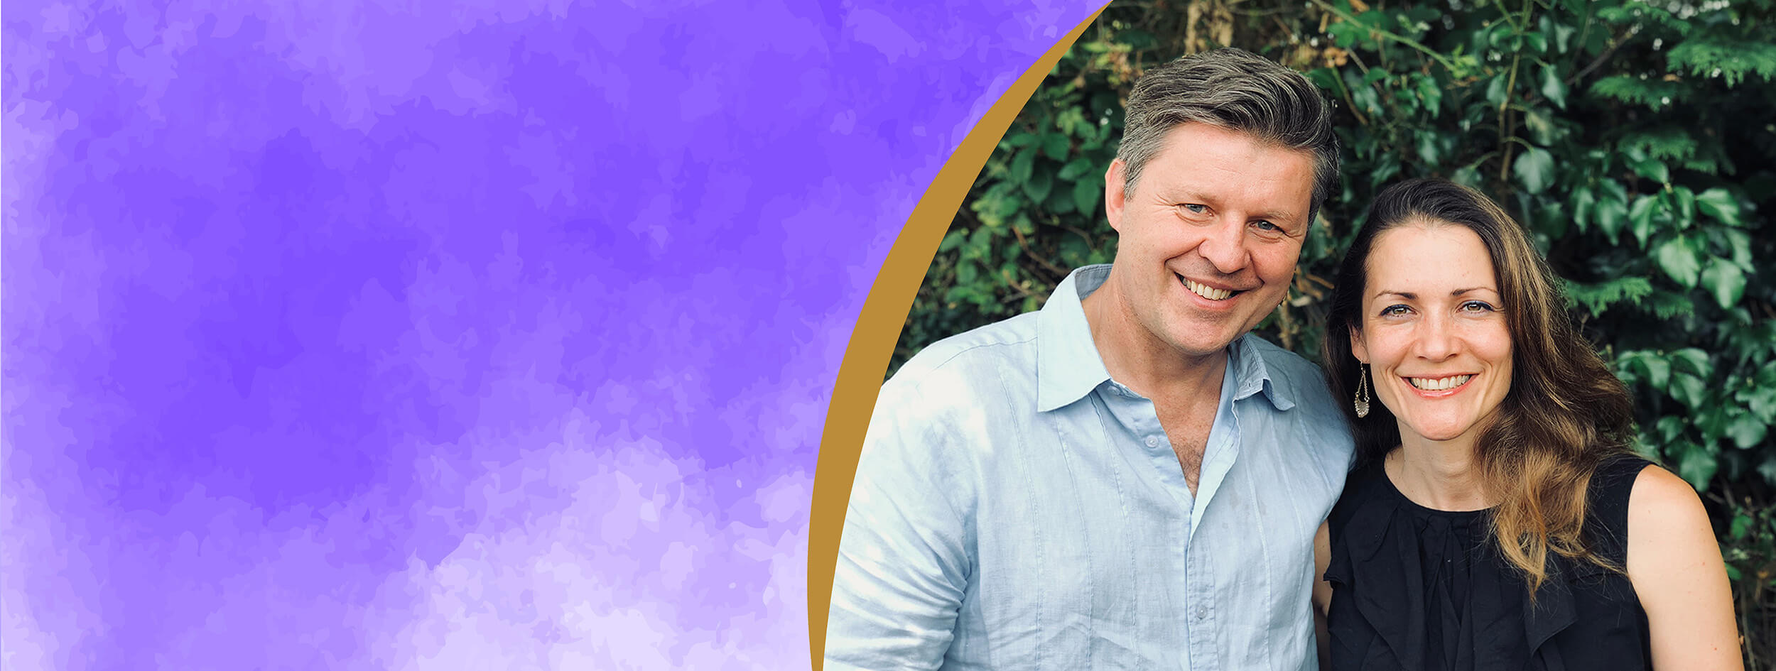
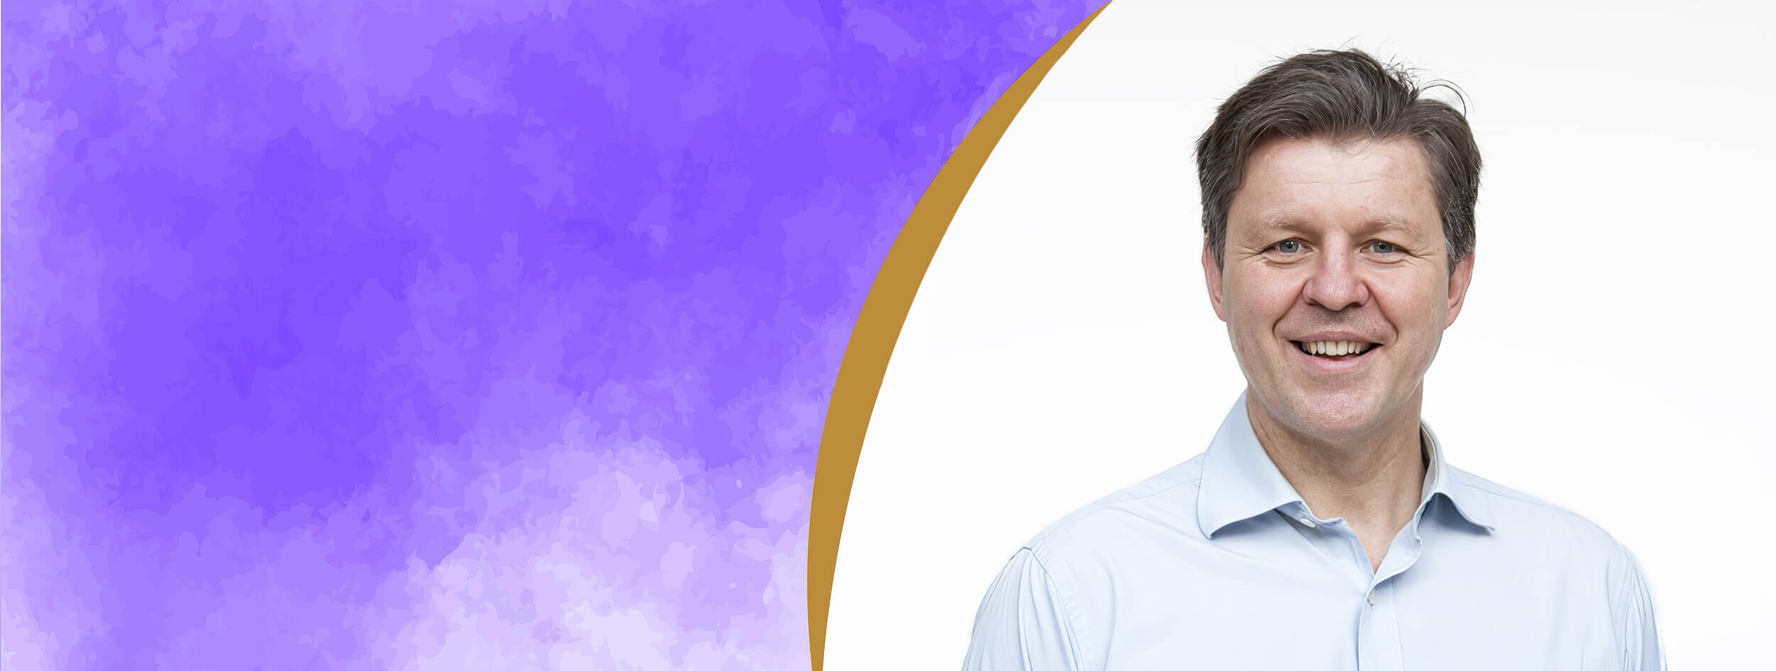
Content and image updates

diff --git a/dist/css/style.css b/dist/css/style.css
@@ -1,3 +1,3 @@
 /*! tailwindcss v2.1.4 | MIT License | https://tailwindcss.com*/
 
-/*! modern-normalize v1.1.0 | MIT License | https://github.com/sindresorhus/modern-normalize */html{-moz-tab-size:4;-o-tab-size:4;tab-size:4;line-height:1.15;-webkit-text-size-adjust:100%}body{margin:0;font-family:system-ui,-apple-system,Segoe UI,Roboto,Helvetica,Arial,sans-serif,Apple Color Emoji,Segoe UI Emoji}hr{height:0;color:inherit}abbr[title]{-webkit-text-decoration:underline dotted;text-decoration:underline dotted}b,strong{font-weight:bolder}code,kbd,pre,samp{font-family:ui-monospace,SFMono-Regular,Consolas,Liberation Mono,Menlo,monospace;font-size:1em}small{font-size:80%}sub,sup{font-size:75%;line-height:0;position:relative;vertical-align:baseline}sub{bottom:-.25em}sup{top:-.5em}table{text-indent:0;border-color:inherit}button,input,optgroup,select,textarea{font-family:inherit;font-size:100%;line-height:1.15;margin:0}button,select{text-transform:none}[type=button],button{-webkit-appearance:button}legend{padding:0}progress{vertical-align:baseline}summary{display:list-item}blockquote,dd,dl,figure,h1,h2,h3,h4,h5,h6,hr,p,pre{margin:0}button{background-color:transparent;background-image:none}button:focus{outline:1px dotted;outline:5px auto -webkit-focus-ring-color}fieldset,ol,ul{margin:0;padding:0}ol,ul{list-style:none}html{font-family:Open Sans,sans-serif;line-height:1.5}body{font-family:inherit;line-height:inherit}*,:after,:before{box-sizing:border-box;border:0 solid}hr{border-top-width:1px}img{border-style:solid}textarea{resize:vertical}input::-moz-placeholder, textarea::-moz-placeholder{opacity:1;color:#a1a1aa}input:-ms-input-placeholder, textarea:-ms-input-placeholder{opacity:1;color:#a1a1aa}input::placeholder,textarea::placeholder{opacity:1;color:#a1a1aa}button{cursor:pointer}table{border-collapse:collapse}h1,h2,h3,h4,h5,h6{font-size:inherit;font-weight:inherit}a{text-decoration:inherit}button,input,optgroup,select,textarea{padding:0;line-height:inherit;color:inherit}code,kbd,pre,samp{font-family:ui-monospace,SFMono-Regular,Menlo,Monaco,Consolas,Liberation Mono,Courier New,monospace}audio,canvas,embed,iframe,img,object,svg,video{display:block;vertical-align:middle}img,video{max-width:100%;height:auto}.bg-gold{--tw-bg-opacity:1;background-color:rgba(201,150,62,var(--tw-bg-opacity))}.bg-dark-gold{--tw-bg-opacity:1;background-color:rgba(178,136,67,var(--tw-bg-opacity))}.bg-purple{--tw-bg-opacity:1;background-color:rgba(67,38,115,var(--tw-bg-opacity))}.bg-purple-2{--tw-bg-opacity:1;background-color:rgba(48,28,101,var(--tw-bg-opacity))}.bg-purple-3{--tw-bg-opacity:1;background-color:rgba(63,44,120,var(--tw-bg-opacity))}.bg-white{--tw-bg-opacity:1;background-color:rgba(255,255,255,var(--tw-bg-opacity))}.bg-cream{--tw-bg-opacity:1;background-color:rgba(228,210,184,var(--tw-bg-opacity))}.bg-yellow{--tw-bg-opacity:1;background-color:rgba(255,207,4,var(--tw-bg-opacity))}.border-none{border-style:none}.cursor-pointer{cursor:pointer}.block{display:block}.inline-block{display:inline-block}.flex{display:flex}.table{display:table}.hidden{display:none}.flex-col{flex-direction:column}.flex-col-reverse{flex-direction:column-reverse}.flex-wrap{flex-wrap:wrap}.flex-wrap-reverse{flex-wrap:wrap-reverse}.items-center{align-items:center}.items-baseline{align-items:baseline}.self-end{align-self:flex-end}.justify-start{justify-content:flex-start}.justify-end{justify-content:flex-end}.justify-center{justify-content:center}.justify-between{justify-content:space-between}.font-sans{font-family:Open Sans,sans-serif}.font-bold{font-weight:700}.h-1{height:.25rem}.h-8{height:2rem}.h-20{height:5rem}.h-24{height:6rem}.h-28{height:7rem}.h-full{height:100%}.text-xl{font-size:1.25rem;line-height:1.75rem}.m-1{margin:.25rem}.m-auto{margin:auto}.my-3{margin-top:.75rem;margin-bottom:.75rem}.mr-3{margin-right:.75rem}.max-w-md{max-width:28rem}.max-w-lg{max-width:32rem}.max-w-4xl{max-width:56rem}.object-contain{-o-object-fit:contain;object-fit:contain}.object-cover{-o-object-fit:cover;object-fit:cover}.object-left{-o-object-position:left;object-position:left}.object-top{-o-object-position:top;object-position:top}.opacity-50{opacity:.5}.overflow-x-hidden{overflow-x:hidden}.overflow-y-hidden{overflow-y:hidden}.overscroll-none{-ms-scroll-chaining:none;overscroll-behavior:none}.p-0{padding:0}.p-3{padding:.75rem}.p-4{padding:1rem}.p-8{padding:2rem}.py-2{padding-top:.5rem;padding-bottom:.5rem}.py-4{padding-top:1rem;padding-bottom:1rem}.px-4{padding-left:1rem;padding-right:1rem}.py-6{padding-top:1.5rem;padding-bottom:1.5rem}.py-8{padding-top:2rem;padding-bottom:2rem}.px-8{padding-left:2rem;padding-right:2rem}.pt-0{padding-top:0}.pb-0{padding-bottom:0}.pb-2{padding-bottom:.5rem}.pt-4{padding-top:1rem}.pb-4{padding-bottom:1rem}.pt-6{padding-top:1.5rem}.pb-6{padding-bottom:1.5rem}.pt-8{padding-top:2rem}.pr-8{padding-right:2rem}.pb-8{padding-bottom:2rem}.pl-8{padding-left:2rem}.pt-12{padding-top:3rem}.pb-12{padding-bottom:3rem}.pt-24{padding-top:6rem}.pb-24{padding-bottom:6rem}.pb-32{padding-bottom:8rem}.pb-72{padding-bottom:18rem}.absolute{position:absolute}.relative{position:relative}.inset-0{top:0;right:0;bottom:0;left:0}.-bottom-2{bottom:-.5rem}*{--tw-shadow:0 0 transparent;--tw-ring-inset:var(--tw-empty,/*!*/ /*!*/);--tw-ring-offset-width:0px;--tw-ring-offset-color:#fff;--tw-ring-color:rgba(59,130,246,0.5);--tw-ring-offset-shadow:0 0 transparent;--tw-ring-shadow:0 0 transparent}.text-center{text-align:center}.text-right{text-align:right}.text-purple{--tw-text-opacity:1;color:rgba(67,38,115,var(--tw-text-opacity))}.text-white{--tw-text-opacity:1;color:rgba(255,255,255,var(--tw-text-opacity))}.hover\:text-purple:hover{--tw-text-opacity:1;color:rgba(67,38,115,var(--tw-text-opacity))}.hover\:text-white:hover{--tw-text-opacity:1;color:rgba(255,255,255,var(--tw-text-opacity))}.italic{font-style:italic}.uppercase{text-transform:uppercase}.hover\:underline:hover{text-decoration:underline}.select-none{-webkit-user-select:none;-moz-user-select:none;-ms-user-select:none;user-select:none}.invisible{visibility:hidden}.w-8{width:2rem}.w-20{width:5rem}.w-32{width:8rem}.w-auto{width:auto}.w-1\/2{width:50%}.w-full{width:100%}.z-50{z-index:50}.gap-4{gap:1rem}@-webkit-keyframes spin{to{transform:rotate(1turn)}}@keyframes spin{to{transform:rotate(1turn)}}@-webkit-keyframes ping{75%,to{transform:scale(2);opacity:0}}@keyframes ping{75%,to{transform:scale(2);opacity:0}}@-webkit-keyframes pulse{50%{opacity:.5}}@keyframes pulse{50%{opacity:.5}}@-webkit-keyframes bounce{0%,to{transform:translateY(-25%);-webkit-animation-timing-function:cubic-bezier(.8,0,1,1);animation-timing-function:cubic-bezier(.8,0,1,1)}50%{transform:none;-webkit-animation-timing-function:cubic-bezier(0,0,.2,1);animation-timing-function:cubic-bezier(0,0,.2,1)}}@keyframes bounce{0%,to{transform:translateY(-25%);-webkit-animation-timing-function:cubic-bezier(.8,0,1,1);animation-timing-function:cubic-bezier(.8,0,1,1)}50%{transform:none;-webkit-animation-timing-function:cubic-bezier(0,0,.2,1);animation-timing-function:cubic-bezier(0,0,.2,1)}}a,h1,h2,h3,h4,i,li,p,td{margin:0;padding:.5rem 0}h1{line-height:1.4;font-weight:600;font-size:30px}@media screen and (min-width:768px){h1{font-size:calc(7.5px + 2.92969vw)}}@media screen and (min-width:1280px){h1{font-size:45px}}h1.heading{font-weight:600;font-size:25px}@media screen and (min-width:768px){h1.heading{font-size:calc(2.5px + 2.92969vw)}}@media screen and (min-width:1280px){h1.heading{font-size:40px}}h2{font-weight:500;font-size:25px}@media screen and (min-width:768px){h2{font-size:calc(14.5px + 1.36719vw)}}@media screen and (min-width:1280px){h2{font-size:32px}}h3{font-weight:500;font-size:20px}@media screen and (min-width:768px){h3{font-size:calc(9.5px + 1.36719vw)}}@media screen and (min-width:1280px){h3{font-size:27px}}h4{font-weight:500;font-size:18px}@media screen and (min-width:768px){h4{font-size:calc(9px + 1.17188vw)}}@media screen and (min-width:1280px){h4{font-size:24px}}.body,p{font-weight:500;font-size:17px}@media screen and (min-width:768px){.body,p{font-size:calc(14px + .39063vw)}}@media screen and (min-width:1280px){.body,p{font-size:19px}}.caption,.caption p{font-size:15px}@media screen and (min-width:768px){.caption,.caption p{font-size:calc(12px + .39063vw)}}@media screen and (min-width:1280px){.caption,.caption p{font-size:17px}}a{color:inherit;cursor:pointer}a:hover{color:#c9963e}.burger-container{transform:rotate(0deg);-webkit-tap-highlight-color:transparent;top:2px}.burger-container,.burger-container .burger-bar{transition:all .3s cubic-bezier(.4,.01,.165,.99)}.burger-container .burger-bar{height:3px;--tw-bg-opacity:1;background-color:rgba(17,17,17,var(--tw-bg-opacity));display:block;position:relative}.burger-container .burger-bar.topBar{transform:translateY(0) rotate(0deg)}.burger-container .burger-bar.midBar{transform:translateY(6px) rotate(0deg)}.burger-container .burger-bar.btmBar{transform:translateY(12px) rotate(0deg)}.navigation-open nav{background-blend-mode:darken;--tw-bg-opacity:1;background-color:rgba(255,255,255,var(--tw-bg-opacity));height:100%;position:absolute;top:0;right:0;bottom:0;left:0;visibility:visible;width:100%;z-index:40}.navigation-open nav ul{flex-direction:column;align-items:center;justify-content:center;height:100%}.navigation-open .burger-container{z-index:50}.navigation-open .burger-container .burger-bar{transition:all .4s cubic-bezier(.4,.01,.165,.99)}.navigation-open .burger-container .burger-bar.topBar{transform:translateY(9px) rotate(45deg)}.navigation-open .burger-container .burger-bar.midBar{opacity:0}.navigation-open .burger-container .burger-bar.btmBar{transform:translateY(3px) rotate(-45deg)}.curve-section:before{content:" ";background-repeat:no-repeat;height:100%;position:absolute;width:100%;z-index:50}.curve-section-1:before{background-image:url(/assets/vectors/curve-1.svg);background-position:bottom;top:.5rem}.curve-section-2:before{background-image:url(/assets/vectors/curve-2.svg);background-position:bottom}.curve-section-3:before{background-image:url(/assets/vectors/curve-3.svg);background-position:top;bottom:.5rem}@media (min-width:768px){.curve-section-3:before{bottom:1rem}}.curve-section-5:before{background-image:url(/assets/vectors/curve-5.svg);background-position:bottom}.jenn-photo{min-height:50rem}@media (min-width:768px){.jenn-photo{min-height:60rem}}@media (min-width:640px){.sm\:block{display:block}.sm\:hidden{display:none}.sm\:self-end{align-self:flex-end}.sm\:justify-end{justify-content:flex-end}.sm\:justify-center{justify-content:center}.sm\:py-12{padding-top:3rem;padding-bottom:3rem}.sm\:pr-12{padding-right:3rem}.sm\:pl-12{padding-left:3rem}.sm\:pb-32{padding-bottom:8rem}.sm\:pt-36{padding-top:9rem}.sm\:pb-52{padding-bottom:13rem}.sm\:w-1\/2{width:50%}}@media (min-width:768px){.md\:bg-clear{background-color:transparent}.md\:block{display:block}.md\:hidden{display:none}.md\:max-w-md{max-width:28rem}.md\:max-w-lg{max-width:32rem}.md\:max-w-xl{max-width:36rem}.md\:p-2{padding:.5rem}.md\:p-4{padding:1rem}.md\:p-6{padding:1.5rem}.md\:p-8{padding:2rem}.md\:p-16{padding:4rem}.md\:py-12{padding-top:3rem;padding-bottom:3rem}.md\:px-16{padding-left:4rem;padding-right:4rem}.md\:pt-0{padding-top:0}.md\:pb-0{padding-bottom:0}.md\:pt-4{padding-top:1rem}.md\:pr-4{padding-right:1rem}.md\:pb-16{padding-bottom:4rem}.md\:pt-32{padding-top:8rem}.md\:pb-44{padding-bottom:11rem}.md\:pb-56{padding-bottom:14rem}.md\:pb-60{padding-bottom:15rem}.md\:text-right{text-align:right}.md\:w-1\/2{width:50%}}@media (min-width:1024px){.lg\:block{display:block}.lg\:hidden{display:none}.lg\:flex-row{flex-direction:row}.lg\:justify-start{justify-content:flex-start}.lg\:mx-8{margin-left:2rem}.lg\:mr-8,.lg\:mx-8{margin-right:2rem}.lg\:ml-8{margin-left:2rem}.lg\:max-w-lg{max-width:32rem}.lg\:max-w-2xl{max-width:42rem}.lg\:px-16{padding-left:4rem;padding-right:4rem}.lg\:py-20{padding-top:5rem;padding-bottom:5rem}.lg\:pt-0{padding-top:0}.lg\:pr-0{padding-right:0}.lg\:pb-0{padding-bottom:0}.lg\:pl-8{padding-left:2rem}.lg\:pr-16{padding-right:4rem}.lg\:pl-24{padding-left:6rem}.lg\:pt-40{padding-top:10rem}.lg\:pb-52{padding-bottom:13rem}.lg\:pb-60{padding-bottom:15rem}.lg\:pb-64{padding-bottom:16rem}.lg\:absolute{position:absolute}.lg\:relative{position:relative}.lg\:bottom-0{bottom:0}.lg\:-bottom-8{bottom:-2rem}.lg\:text-white{--tw-text-opacity:1;color:rgba(255,255,255,var(--tw-text-opacity))}.lg\:visible{visibility:visible}.lg\:w-5\/12{width:41.666667%}.lg\:w-6\/12{width:50%}}@media (min-width:1280px){.xl\:max-w-2xl{max-width:42rem}.xl\:max-w-3xl{max-width:48rem}.xl\:pr-20{padding-right:5rem}.xl\:pl-20{padding-left:5rem}.xl\:pb-60{padding-bottom:15rem}.xl\:pb-72{padding-bottom:18rem}.xl\:pb-80{padding-bottom:20rem}}
+/*! modern-normalize v1.1.0 | MIT License | https://github.com/sindresorhus/modern-normalize */html{-moz-tab-size:4;-o-tab-size:4;tab-size:4;line-height:1.15;-webkit-text-size-adjust:100%}body{margin:0;font-family:system-ui,-apple-system,Segoe UI,Roboto,Helvetica,Arial,sans-serif,Apple Color Emoji,Segoe UI Emoji}hr{height:0;color:inherit}abbr[title]{-webkit-text-decoration:underline dotted;text-decoration:underline dotted}b,strong{font-weight:bolder}code,kbd,pre,samp{font-family:ui-monospace,SFMono-Regular,Consolas,Liberation Mono,Menlo,monospace;font-size:1em}small{font-size:80%}sub,sup{font-size:75%;line-height:0;position:relative;vertical-align:baseline}sub{bottom:-.25em}sup{top:-.5em}table{text-indent:0;border-color:inherit}button,input,optgroup,select,textarea{font-family:inherit;font-size:100%;line-height:1.15;margin:0}button,select{text-transform:none}[type=button],button{-webkit-appearance:button}legend{padding:0}progress{vertical-align:baseline}summary{display:list-item}blockquote,dd,dl,figure,h1,h2,h3,h4,h5,h6,hr,p,pre{margin:0}button{background-color:transparent;background-image:none}button:focus{outline:1px dotted;outline:5px auto -webkit-focus-ring-color}fieldset,ol,ul{margin:0;padding:0}ol,ul{list-style:none}html{font-family:Open Sans,sans-serif;line-height:1.5}body{font-family:inherit;line-height:inherit}*,:after,:before{box-sizing:border-box;border:0 solid}hr{border-top-width:1px}img{border-style:solid}textarea{resize:vertical}input::-moz-placeholder, textarea::-moz-placeholder{opacity:1;color:#a1a1aa}input:-ms-input-placeholder, textarea:-ms-input-placeholder{opacity:1;color:#a1a1aa}input::placeholder,textarea::placeholder{opacity:1;color:#a1a1aa}button{cursor:pointer}table{border-collapse:collapse}h1,h2,h3,h4,h5,h6{font-size:inherit;font-weight:inherit}a{text-decoration:inherit}button,input,optgroup,select,textarea{padding:0;line-height:inherit;color:inherit}code,kbd,pre,samp{font-family:ui-monospace,SFMono-Regular,Menlo,Monaco,Consolas,Liberation Mono,Courier New,monospace}audio,canvas,embed,iframe,img,object,svg,video{display:block;vertical-align:middle}img,video{max-width:100%;height:auto}.bg-gold{--tw-bg-opacity:1;background-color:rgba(201,150,62,var(--tw-bg-opacity))}.bg-dark-gold{--tw-bg-opacity:1;background-color:rgba(178,136,67,var(--tw-bg-opacity))}.bg-purple{--tw-bg-opacity:1;background-color:rgba(67,38,115,var(--tw-bg-opacity))}.bg-purple-2{--tw-bg-opacity:1;background-color:rgba(48,28,101,var(--tw-bg-opacity))}.bg-purple-3{--tw-bg-opacity:1;background-color:rgba(63,44,120,var(--tw-bg-opacity))}.bg-white{--tw-bg-opacity:1;background-color:rgba(255,255,255,var(--tw-bg-opacity))}.bg-cream{--tw-bg-opacity:1;background-color:rgba(228,210,184,var(--tw-bg-opacity))}.bg-yellow{--tw-bg-opacity:1;background-color:rgba(255,207,4,var(--tw-bg-opacity))}.border-none{border-style:none}.cursor-pointer{cursor:pointer}.block{display:block}.inline-block{display:inline-block}.flex{display:flex}.table{display:table}.hidden{display:none}.flex-col{flex-direction:column}.flex-col-reverse{flex-direction:column-reverse}.flex-wrap{flex-wrap:wrap}.flex-wrap-reverse{flex-wrap:wrap-reverse}.items-center{align-items:center}.items-baseline{align-items:baseline}.self-end{align-self:flex-end}.justify-start{justify-content:flex-start}.justify-end{justify-content:flex-end}.justify-center{justify-content:center}.justify-between{justify-content:space-between}.font-sans{font-family:Open Sans,sans-serif}.font-bold{font-weight:700}.h-1{height:.25rem}.h-8{height:2rem}.h-20{height:5rem}.h-24{height:6rem}.h-28{height:7rem}.h-full{height:100%}.text-xl{font-size:1.25rem;line-height:1.75rem}.m-1{margin:.25rem}.m-auto{margin:auto}.my-3{margin-top:.75rem;margin-bottom:.75rem}.mr-3{margin-right:.75rem}.max-w-md{max-width:28rem}.max-w-lg{max-width:32rem}.max-w-4xl{max-width:56rem}.object-contain{-o-object-fit:contain;object-fit:contain}.object-cover{-o-object-fit:cover;object-fit:cover}.object-left{-o-object-position:left;object-position:left}.object-top{-o-object-position:top;object-position:top}.opacity-50{opacity:.5}.overflow-x-hidden{overflow-x:hidden}.overflow-y-hidden{overflow-y:hidden}.overscroll-none{-ms-scroll-chaining:none;overscroll-behavior:none}.p-0{padding:0}.p-3{padding:.75rem}.p-4{padding:1rem}.p-8{padding:2rem}.py-2{padding-top:.5rem;padding-bottom:.5rem}.py-4{padding-top:1rem;padding-bottom:1rem}.px-4{padding-left:1rem;padding-right:1rem}.py-6{padding-top:1.5rem;padding-bottom:1.5rem}.py-8{padding-top:2rem;padding-bottom:2rem}.px-8{padding-left:2rem;padding-right:2rem}.pt-0{padding-top:0}.pb-0{padding-bottom:0}.pb-2{padding-bottom:.5rem}.pt-4{padding-top:1rem}.pb-4{padding-bottom:1rem}.pt-6{padding-top:1.5rem}.pb-6{padding-bottom:1.5rem}.pt-8{padding-top:2rem}.pr-8{padding-right:2rem}.pb-8{padding-bottom:2rem}.pl-8{padding-left:2rem}.pt-12{padding-top:3rem}.pb-12{padding-bottom:3rem}.pt-24{padding-top:6rem}.pb-24{padding-bottom:6rem}.pb-32{padding-bottom:8rem}.pb-72{padding-bottom:18rem}.absolute{position:absolute}.relative{position:relative}.inset-0{top:0;right:0;bottom:0;left:0}.bottom-1{bottom:.25rem}.-bottom-2{bottom:-.5rem}*{--tw-shadow:0 0 transparent;--tw-ring-inset:var(--tw-empty,/*!*/ /*!*/);--tw-ring-offset-width:0px;--tw-ring-offset-color:#fff;--tw-ring-color:rgba(59,130,246,0.5);--tw-ring-offset-shadow:0 0 transparent;--tw-ring-shadow:0 0 transparent}.text-center{text-align:center}.text-right{text-align:right}.text-purple{--tw-text-opacity:1;color:rgba(67,38,115,var(--tw-text-opacity))}.text-white{--tw-text-opacity:1;color:rgba(255,255,255,var(--tw-text-opacity))}.hover\:text-purple:hover{--tw-text-opacity:1;color:rgba(67,38,115,var(--tw-text-opacity))}.hover\:text-white:hover{--tw-text-opacity:1;color:rgba(255,255,255,var(--tw-text-opacity))}.italic{font-style:italic}.uppercase{text-transform:uppercase}.hover\:underline:hover{text-decoration:underline}.select-none{-webkit-user-select:none;-moz-user-select:none;-ms-user-select:none;user-select:none}.invisible{visibility:hidden}.w-8{width:2rem}.w-20{width:5rem}.w-32{width:8rem}.w-auto{width:auto}.w-1\/2{width:50%}.w-full{width:100%}.z-50{z-index:50}.gap-4{gap:1rem}@-webkit-keyframes spin{to{transform:rotate(1turn)}}@keyframes spin{to{transform:rotate(1turn)}}@-webkit-keyframes ping{75%,to{transform:scale(2);opacity:0}}@keyframes ping{75%,to{transform:scale(2);opacity:0}}@-webkit-keyframes pulse{50%{opacity:.5}}@keyframes pulse{50%{opacity:.5}}@-webkit-keyframes bounce{0%,to{transform:translateY(-25%);-webkit-animation-timing-function:cubic-bezier(.8,0,1,1);animation-timing-function:cubic-bezier(.8,0,1,1)}50%{transform:none;-webkit-animation-timing-function:cubic-bezier(0,0,.2,1);animation-timing-function:cubic-bezier(0,0,.2,1)}}@keyframes bounce{0%,to{transform:translateY(-25%);-webkit-animation-timing-function:cubic-bezier(.8,0,1,1);animation-timing-function:cubic-bezier(.8,0,1,1)}50%{transform:none;-webkit-animation-timing-function:cubic-bezier(0,0,.2,1);animation-timing-function:cubic-bezier(0,0,.2,1)}}a,h1,h2,h3,h4,i,li,p,td{margin:0;padding:.5rem 0}h1{line-height:1.4;font-weight:600;font-size:30px}@media screen and (min-width:768px){h1{font-size:calc(7.5px + 2.92969vw)}}@media screen and (min-width:1280px){h1{font-size:45px}}h1.heading{font-weight:600;font-size:25px}@media screen and (min-width:768px){h1.heading{font-size:calc(2.5px + 2.92969vw)}}@media screen and (min-width:1280px){h1.heading{font-size:40px}}h2{font-weight:500;font-size:25px}@media screen and (min-width:768px){h2{font-size:calc(14.5px + 1.36719vw)}}@media screen and (min-width:1280px){h2{font-size:32px}}h3{font-weight:500;font-size:20px}@media screen and (min-width:768px){h3{font-size:calc(9.5px + 1.36719vw)}}@media screen and (min-width:1280px){h3{font-size:27px}}h4{font-weight:500;font-size:18px}@media screen and (min-width:768px){h4{font-size:calc(9px + 1.17188vw)}}@media screen and (min-width:1280px){h4{font-size:24px}}.body,p{font-weight:500;font-size:17px}@media screen and (min-width:768px){.body,p{font-size:calc(14px + .39063vw)}}@media screen and (min-width:1280px){.body,p{font-size:19px}}.caption,.caption p{font-size:15px}@media screen and (min-width:768px){.caption,.caption p{font-size:calc(12px + .39063vw)}}@media screen and (min-width:1280px){.caption,.caption p{font-size:17px}}a{color:inherit;cursor:pointer}a:hover{color:#c9963e}.burger-container{transform:rotate(0deg);-webkit-tap-highlight-color:transparent;top:2px}.burger-container,.burger-container .burger-bar{transition:all .3s cubic-bezier(.4,.01,.165,.99)}.burger-container .burger-bar{height:3px;--tw-bg-opacity:1;background-color:rgba(17,17,17,var(--tw-bg-opacity));display:block;position:relative}.burger-container .burger-bar.topBar{transform:translateY(0) rotate(0deg)}.burger-container .burger-bar.midBar{transform:translateY(6px) rotate(0deg)}.burger-container .burger-bar.btmBar{transform:translateY(12px) rotate(0deg)}.navigation-open nav{background-blend-mode:darken;--tw-bg-opacity:1;background-color:rgba(255,255,255,var(--tw-bg-opacity));height:100%;position:absolute;top:0;right:0;bottom:0;left:0;visibility:visible;width:100%;z-index:40}.navigation-open nav ul{flex-direction:column;align-items:center;justify-content:center;height:100%}.navigation-open .burger-container{z-index:50}.navigation-open .burger-container .burger-bar{transition:all .4s cubic-bezier(.4,.01,.165,.99)}.navigation-open .burger-container .burger-bar.topBar{transform:translateY(9px) rotate(45deg)}.navigation-open .burger-container .burger-bar.midBar{opacity:0}.navigation-open .burger-container .burger-bar.btmBar{transform:translateY(3px) rotate(-45deg)}.curve-section:before{content:" ";background-repeat:no-repeat;height:100%;position:absolute;width:100%;z-index:50}.curve-section-1:before{background-image:url(/assets/vectors/curve-1.svg);background-position:bottom;top:.5rem}.curve-section-2:before{background-image:url(/assets/vectors/curve-2.svg);background-position:bottom}.curve-section-3:before{background-image:url(/assets/vectors/curve-3.svg);background-position:top;bottom:.5rem}@media (min-width:768px){.curve-section-3:before{bottom:1rem}}.curve-section-5:before{background-image:url(/assets/vectors/curve-5.svg);background-position:bottom}.jenn-photo{min-height:50rem}@media (min-width:768px){.jenn-photo{min-height:60rem}}@media (min-width:640px){.sm\:block{display:block}.sm\:hidden{display:none}.sm\:self-center{align-self:center}.sm\:justify-end{justify-content:flex-end}.sm\:justify-center{justify-content:center}.sm\:py-12{padding-top:3rem;padding-bottom:3rem}.sm\:pr-12{padding-right:3rem}.sm\:pl-12{padding-left:3rem}.sm\:pb-32{padding-bottom:8rem}.sm\:pt-36{padding-top:9rem}.sm\:pb-52{padding-bottom:13rem}.sm\:w-1\/2{width:50%}}@media (min-width:768px){.md\:bg-clear{background-color:transparent}.md\:block{display:block}.md\:hidden{display:none}.md\:max-w-md{max-width:28rem}.md\:max-w-lg{max-width:32rem}.md\:p-2{padding:.5rem}.md\:p-4{padding:1rem}.md\:p-6{padding:1.5rem}.md\:p-8{padding:2rem}.md\:p-16{padding:4rem}.md\:py-12{padding-top:3rem;padding-bottom:3rem}.md\:px-16{padding-left:4rem;padding-right:4rem}.md\:pt-0{padding-top:0}.md\:pb-0{padding-bottom:0}.md\:pt-4{padding-top:1rem}.md\:pr-4{padding-right:1rem}.md\:pb-16{padding-bottom:4rem}.md\:pt-32{padding-top:8rem}.md\:pb-44{padding-bottom:11rem}.md\:pb-56{padding-bottom:14rem}.md\:pb-60{padding-bottom:15rem}.md\:text-right{text-align:right}.md\:w-1\/2{width:50%}}@media (min-width:1024px){.lg\:block{display:block}.lg\:hidden{display:none}.lg\:flex-row{flex-direction:row}.lg\:justify-start{justify-content:flex-start}.lg\:mx-8{margin-left:2rem}.lg\:mr-8,.lg\:mx-8{margin-right:2rem}.lg\:ml-8{margin-left:2rem}.lg\:max-w-lg{max-width:32rem}.lg\:max-w-xl{max-width:36rem}.lg\:px-16{padding-left:4rem;padding-right:4rem}.lg\:pt-0{padding-top:0}.lg\:pr-0{padding-right:0}.lg\:pb-0{padding-bottom:0}.lg\:pl-8{padding-left:2rem}.lg\:pr-16{padding-right:4rem}.lg\:pt-20{padding-top:5rem}.lg\:pl-24{padding-left:6rem}.lg\:pb-32{padding-bottom:8rem}.lg\:pt-40{padding-top:10rem}.lg\:pb-52{padding-bottom:13rem}.lg\:pb-60{padding-bottom:15rem}.lg\:pb-64{padding-bottom:16rem}.lg\:absolute{position:absolute}.lg\:relative{position:relative}.lg\:bottom-0{bottom:0}.lg\:-bottom-8{bottom:-2rem}.lg\:text-white{--tw-text-opacity:1;color:rgba(255,255,255,var(--tw-text-opacity))}.lg\:visible{visibility:visible}.lg\:w-6\/12{width:50%}}@media (min-width:1280px){.xl\:max-w-2xl{max-width:42rem}.xl\:pr-20{padding-right:5rem}.xl\:pl-20{padding-left:5rem}.xl\:pb-60{padding-bottom:15rem}.xl\:pb-80{padding-bottom:20rem}}

diff --git a/index.html b/index.html
@@ -77,7 +77,7 @@
                     <img
                         src="assets/images/banner-desktop.jpg"
                         alt="Liebusters logo"
-                        class="absolute inset-0 hidden lg:block object-cover w-full h-full"
+                        class="absolute inset-0 hidden lg:block object-cover object-top w-full h-full"
                     />
                 </picture>
                 <!-- Tablet banner -->
@@ -106,10 +106,10 @@
                             flex flex-col
                             justify-start
                             sm:justify-center sm:w-1/2
-                            lg:w-5/12
+                            lg:w-6/12
                             py-4
                             sm:py-12
-                            lg:py-20
+                            lg:pt-20 lg:pb-32
                             pl-8
                             sm:pl-12
                             lg:pl-24
@@ -121,9 +121,9 @@
                             pb-72
                         "
                     >
-                        <h1>HI! WE’RE JONATHAN & HELENA CAVAN</h1>
-                        <h3>We want to help you get spiritually and emotionally unblocked</h3>
-                        <h2 class="italic sm:self-end md:w-1/2 md:text-right pt-0 md:pb-0">
+                        <h1>HI! I'M JONATHAN CAVAN</h1>
+                        <h3>I want to help you get spiritually and emotionally unblocked</h3>
+                        <h2 class="italic sm:self-center md:w-1/2 md:text-right pt-0 md:pb-0">
                             ...and have fun doing it!
                         </h2>
                     </div>
@@ -241,7 +241,7 @@
                     </div>
                 </div>
             </section>
-            <section class="relative">
+            <section class="relative bottom-1">
                 <div class="pt-8 pb-0 px-8 md:p-16 md:pb-0 md:pt-0 bg-dark-gold">
                     <img
                         src="assets/images/gold-feathers.png"
@@ -389,16 +389,15 @@
                         <img
                             src="assets/images/founders.png"
                             alt="Liebusters Founders - Jonathan and Helena Cavan"
-                            class="lg:absolute lg:bottom-0 md:max-w-xl lg:max-w-2xl xl:max-w-3xl"
+                            class="lg:absolute lg:bottom-0 md:max-w-lg lg:max-w-xl xl:max-w-2xl"
                         />
                     </picture>
-                    <div class="lg:w-6/12 text-purple relative p-8 pb-0 lg:pr-16 lg:pb-60 lg:pl-8 lg:pt-0 xl:pb-72">
-                        <h1 class="uppercase pb-0">Meet the Founders</h1>
+                    <div class="lg:w-6/12 text-purple relative p-8 pb-0 lg:pr-16 lg:pb-60 lg:pl-8 lg:pt-0 xl:pb-80">
+                        <h1 class="uppercase pb-0">Meet the Founder</h1>
                         <h4>
-                            Jonathan and Helena Cavan founded Liebusters in 2013 after 17 years of marital struggles
-                            that no other tools, therapists or counsellors could help with. God showed them how to deal
-                            with generational issues and parts of themselves that had become emotionally stuck.
-                            Liebusters was born!
+                            Jonathan developed the Liebusters freedom tool to address the need for a simple, fast,
+                            gentle, yet powerful tool that anybody can use. Liebusters has helped thousands of people
+                            all over the world.
                         </h4>
                     </div>
                 </div>
@@ -433,8 +432,8 @@
                         <p class="pt-6">
                             Wow! Liebusters brings freedom like nothing else. I thought I had been set free from stuff
                             in my life, but actually there was a constant battle in my mind to stop me falling into old
-                            habits. It was about 2 weeks after being Liebusted that I realised that I wasn't having those
-                            thoughts anymore. True Freedom!
+                            habits. It was about 2 weeks after being Liebusted that I realised that I wasn't having
+                            those thoughts anymore. True Freedom!
                         </p>
                     </div>
                 </div>
@@ -458,7 +457,7 @@
             <section class="relative">
                 <div class="p-8 max-w-4xl m-auto">
                     <p class="uppercase text-center p-4">Partners & Clients</p>
-                    <hr class="bg-gold m-auto border-none opacity-50" style="height: 1px"/>
+                    <hr class="bg-gold m-auto border-none opacity-50" style="height: 1px" />
                     <div class="flex gap-4 flex-wrap justify-center p-4">
                         <img src="assets/images/bethel.png" alt="Bethel Music logo" class="h-24 w-auto" />
                         <img src="assets/images/chroma.png" alt="Chroma Church logo" class="h-24 w-auto" />
@@ -470,7 +469,7 @@
             <section>
                 <div class="py-4 px-8 md:p-6 bg-purple text-white m-auto">
                     <p class="caption text-center">
-                        Copyright &copy; 2021 Liebusters, Milestone, Greet, Gloucestershire, UK
+                        Copyright &copy; 2022 Liebusters Global Limited, Ayrshire, Scotland UK
                     </p>
                 </div>
             </section>
